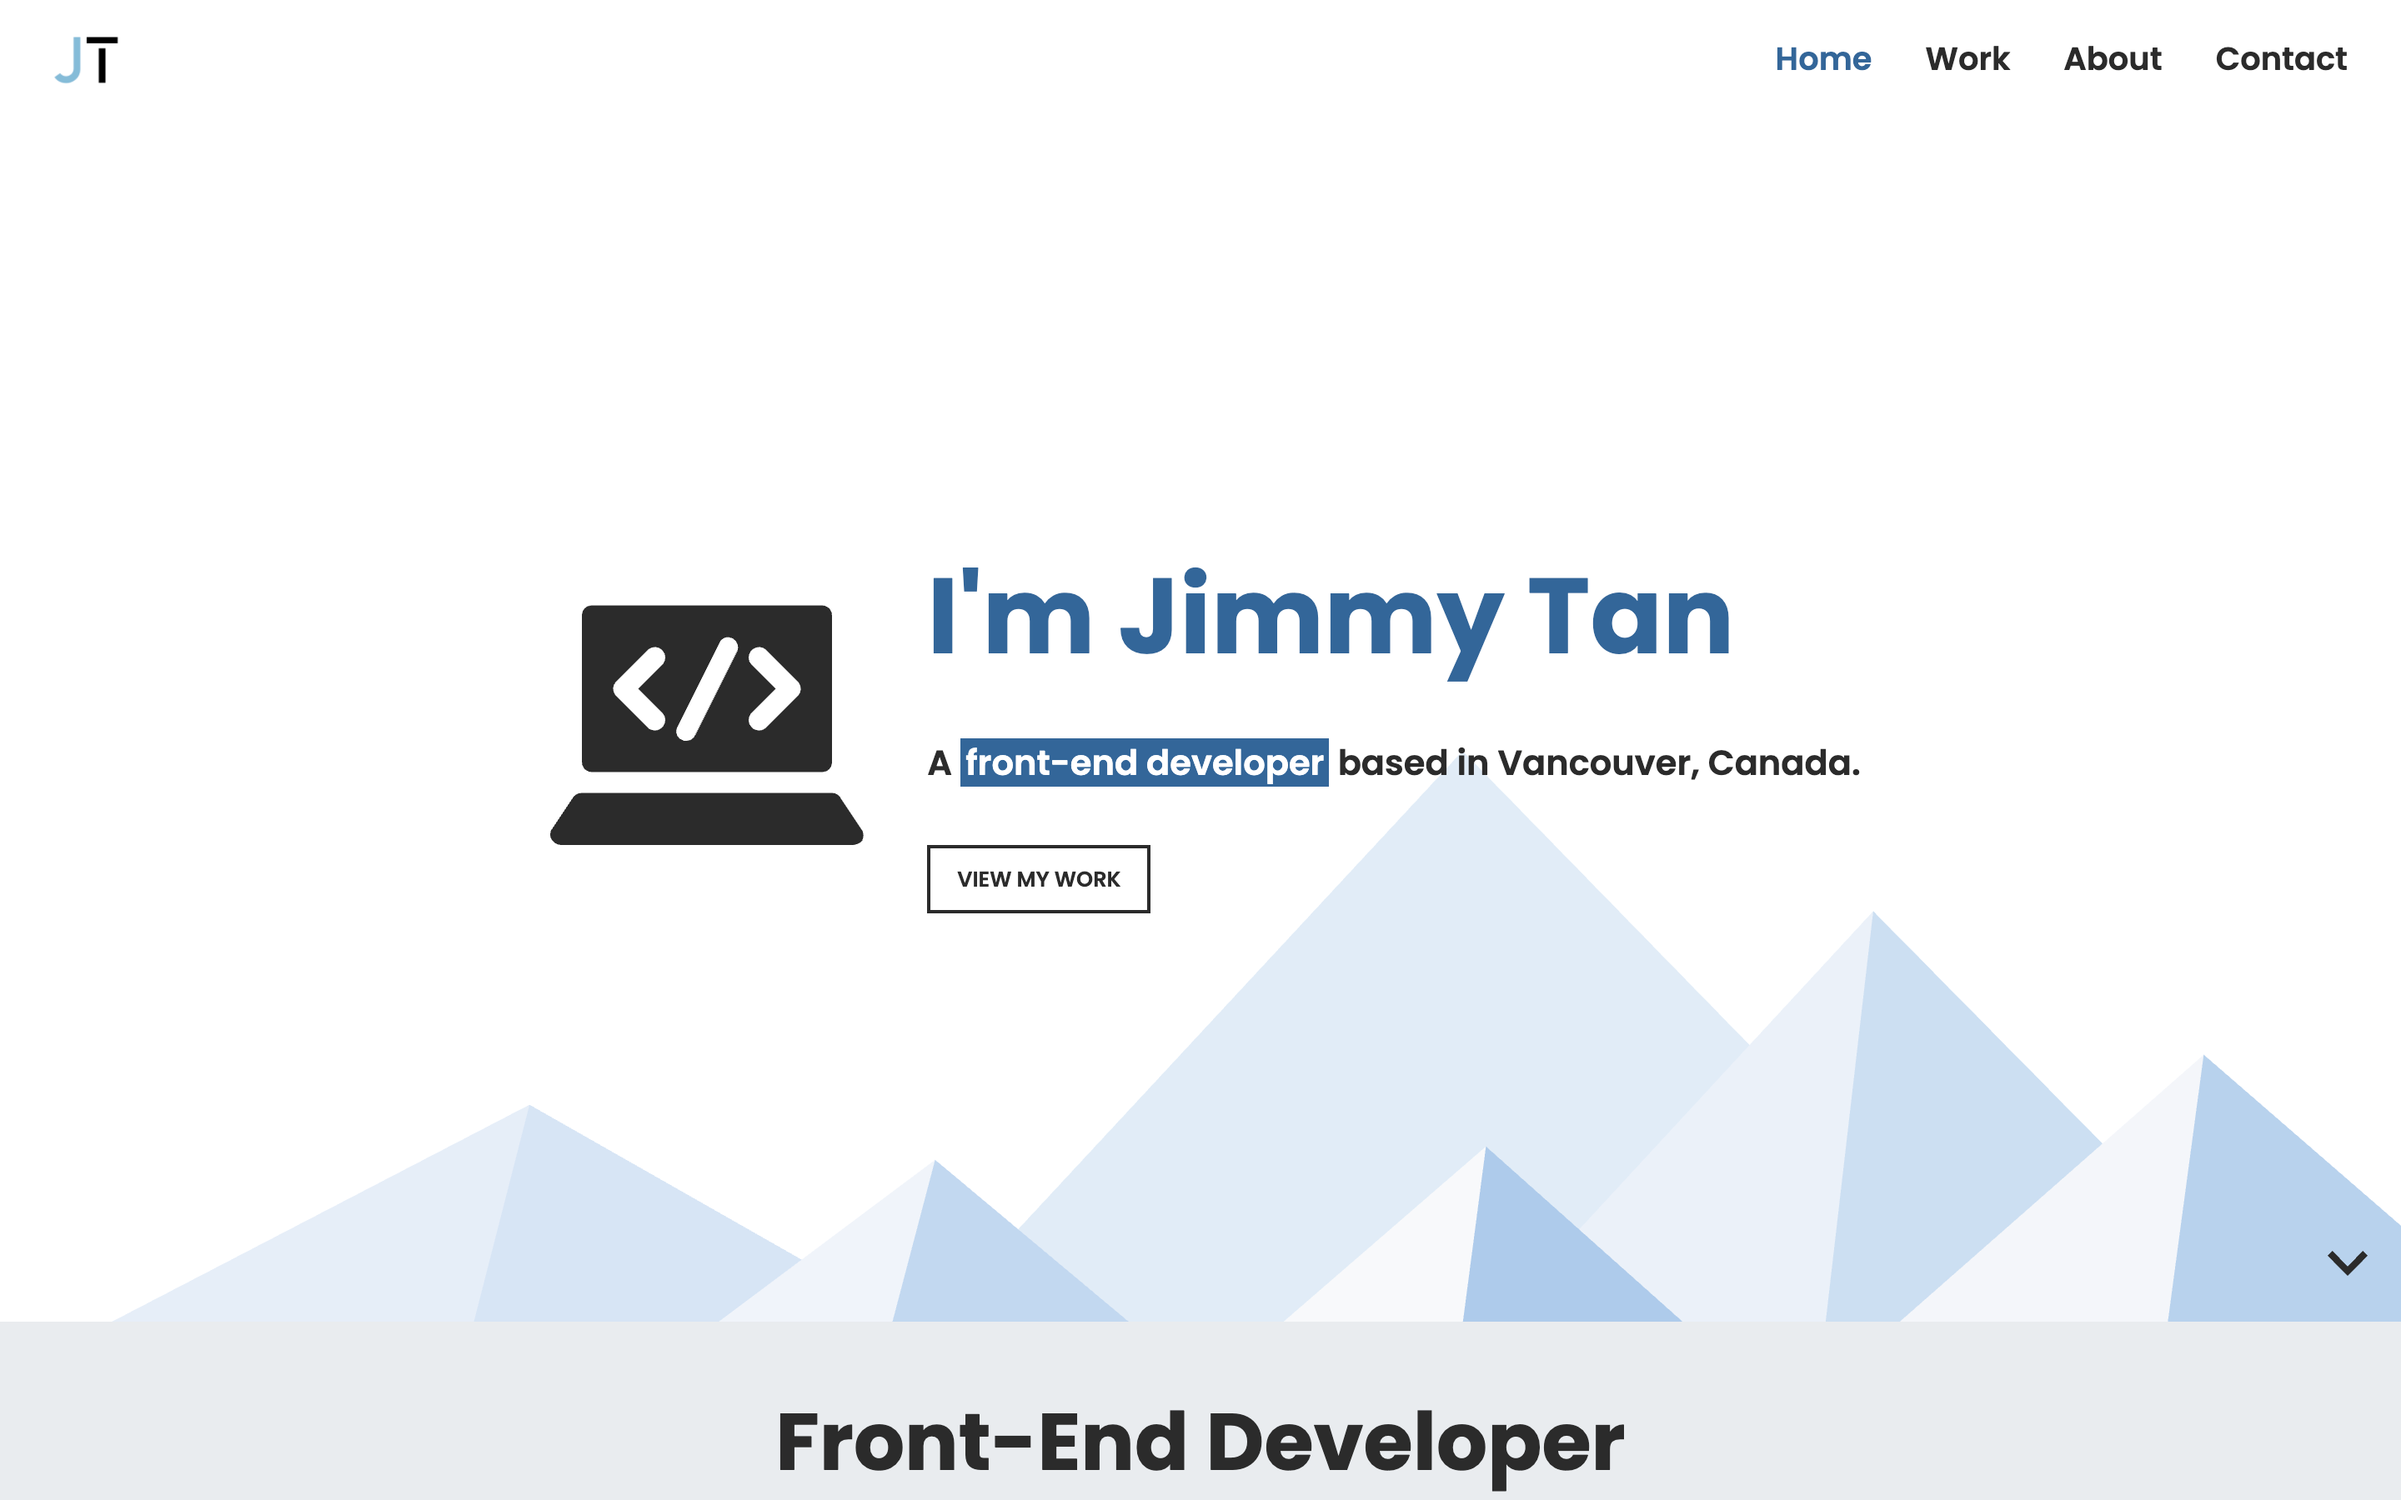
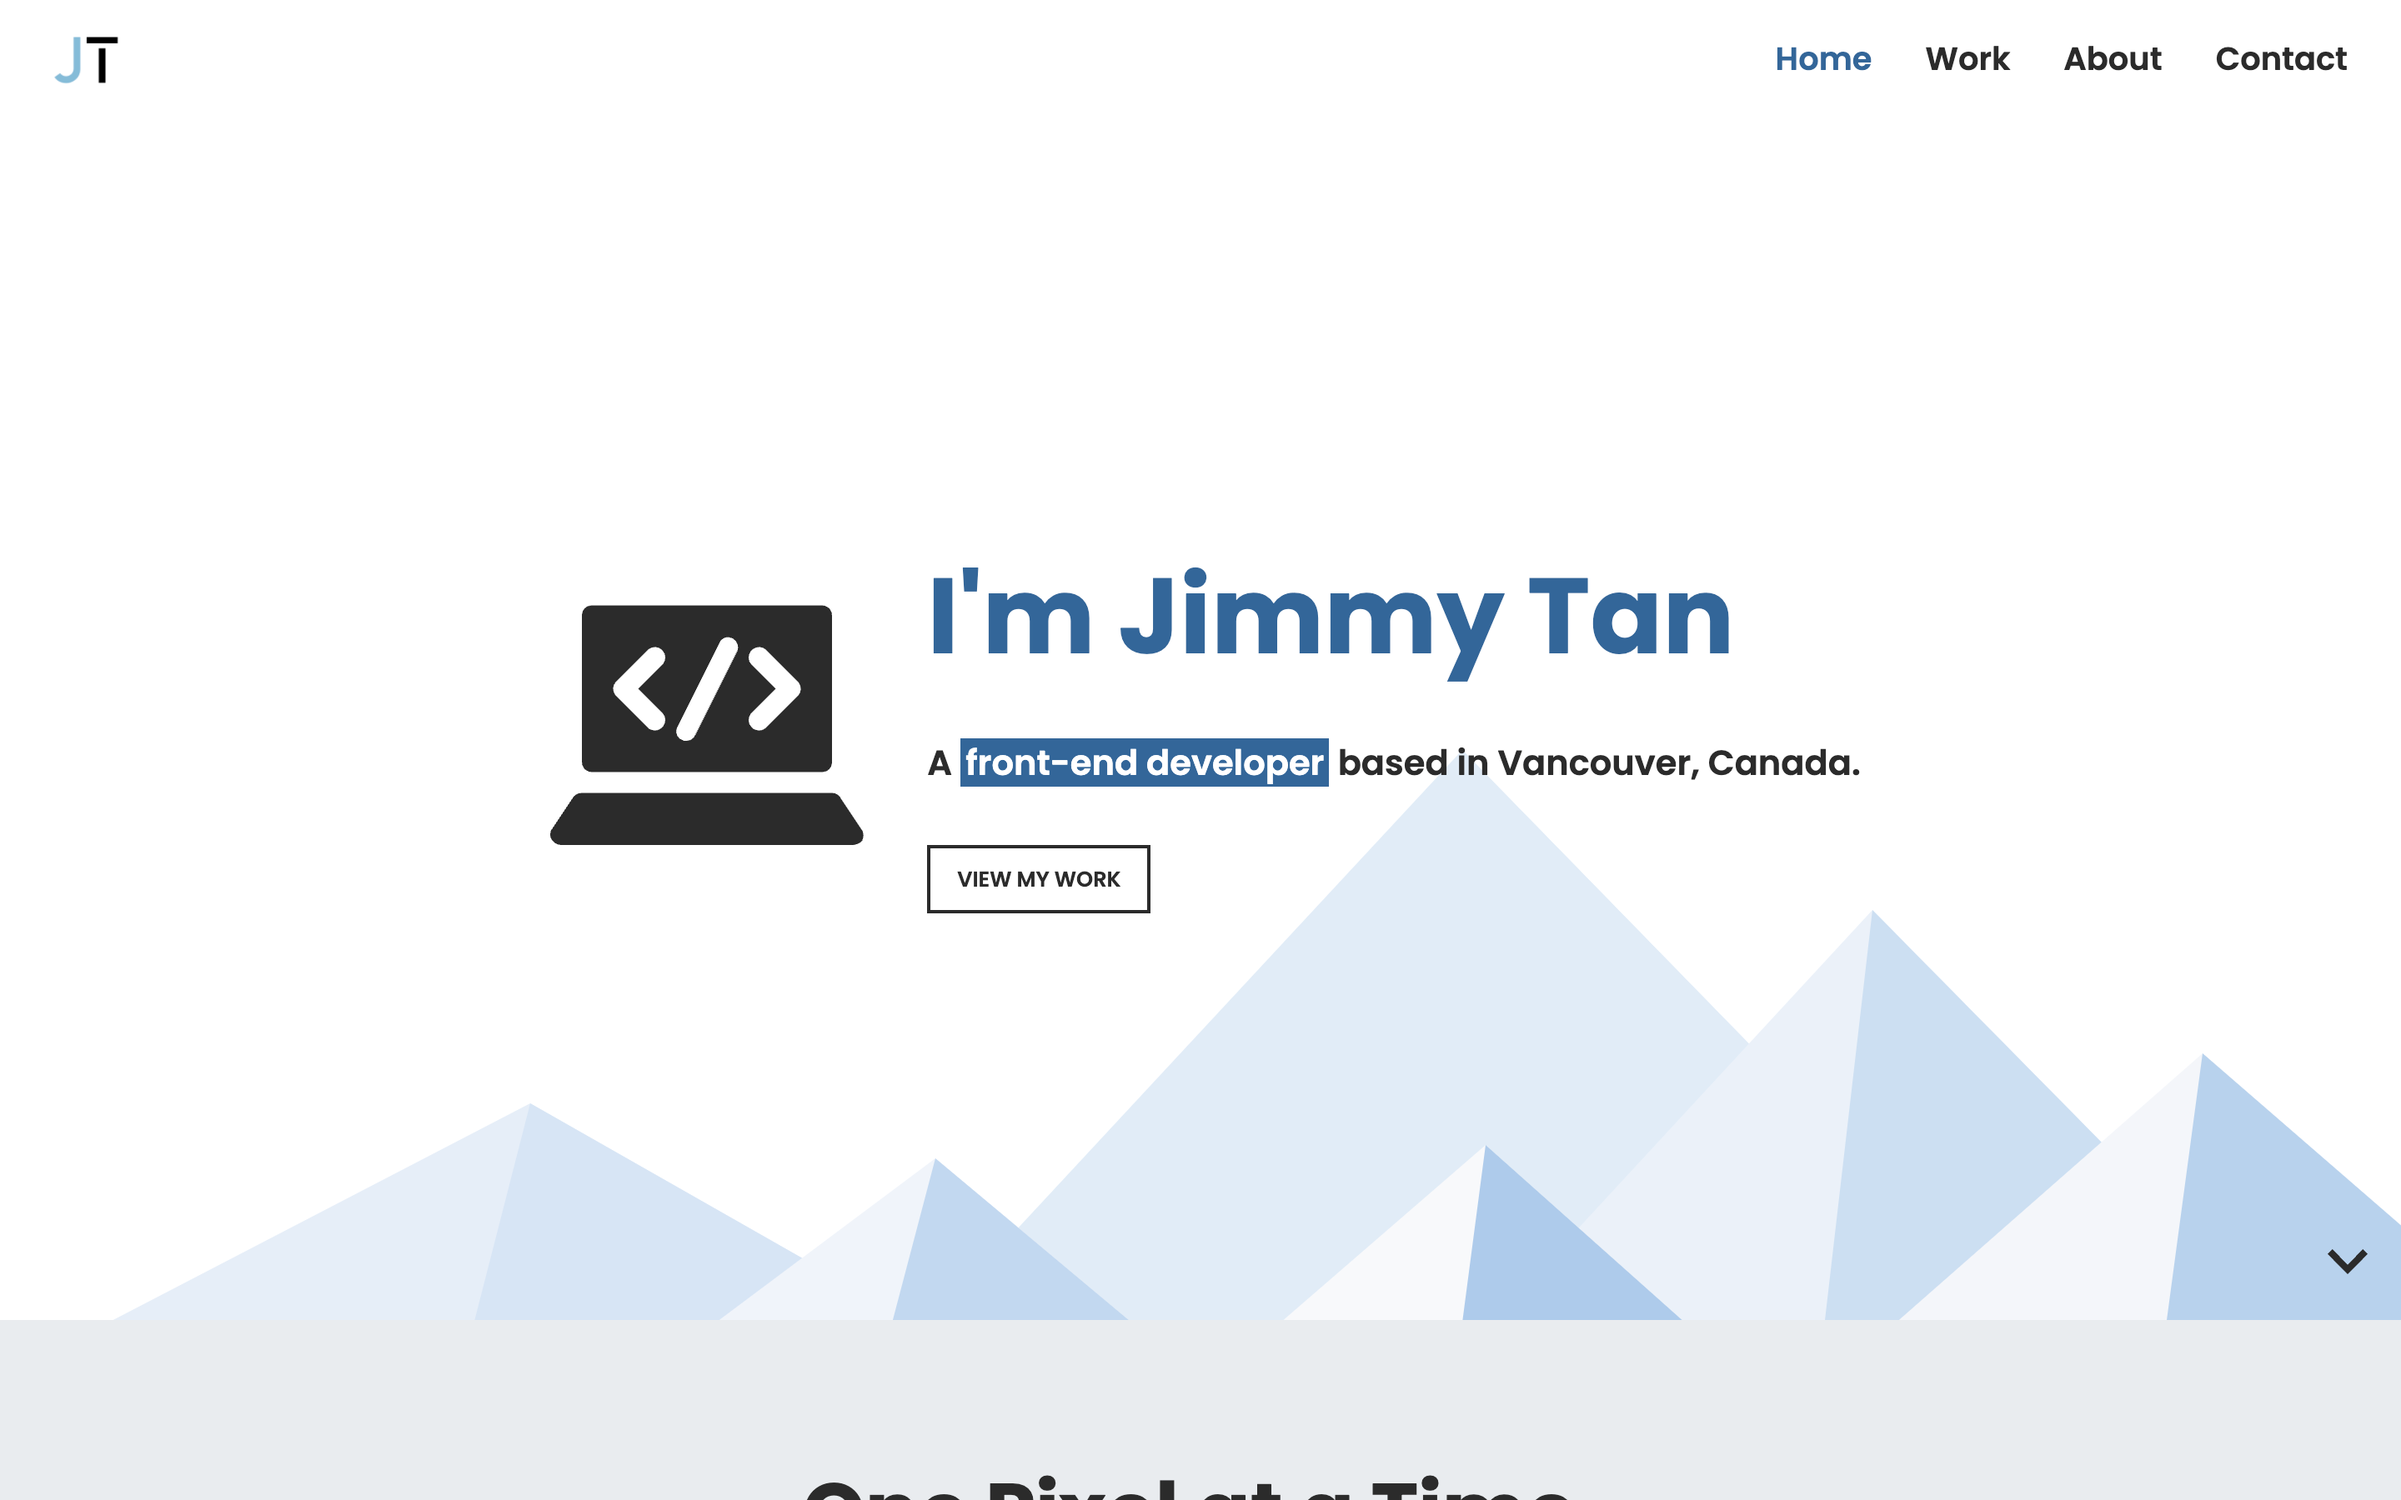
change design on homepage

Changed region(s): [[0.3125, 0.9333, 0.6875, 1.0]]

diff --git a/src/pages/PageHome.js b/src/pages/PageHome.js
@@ -2,7 +2,6 @@ import { useRef } from 'react';
 import { Link } from 'react-router-dom';
 import { motion } from 'framer-motion';
 import { Helmet } from 'react-helmet-async';
-import { FaCode, FaPaintBrush } from 'react-icons/fa';
 import { ReactComponent as LaptopCode } from '../globals/logos/laptop-code.svg';
 import { downArrow } from '../globals/icon';
 import Contact from '../components/Contact';
@@ -48,38 +47,21 @@ const PageHome = () => {
           {downArrow}
         </button>
       </section>
-      <section ref={elementRef} className="background">
+      <section ref={elementRef} className="brief-intro">
         <div className="text">
-          <h2>Front-End Developer</h2>
+          <h2>One Pixel at a Time</h2>
           <p>
             A self-motivated front-end developer with{' '}
             <Link className="link-to-work" to="/work">
-              <mark>hands-on project experience</mark>
+              <span>hands-on project experiences</span>
             </Link>{' '}
             designing and building websites from scratch. My goal is to build
             websites with both visually appealing and user experience-oriented
             functionality.
             <Link className="link-to-about" to="/about">
-              <mark>More about me.</mark>
+              <span> More about me.</span>
             </Link>
           </p>
-          <div className="grid">
-            <h3>Things I Love</h3>
-            <div className="card">
-              <FaCode className="code-icon" title="Code icon" />
-              <p>
-                I enjoy front-end development and love to work with React JS,
-                HTML5, CSS3/Sass and modern JavaScript.
-              </p>
-            </div>
-            <div className="card">
-              <FaPaintBrush className="brush-icon" title="Design brush icon" />
-              <p>
-                I also like being part of the design creative process and I have
-                been working on web design using Adobe Creative Cloud.
-              </p>
-            </div>
-          </div>
         </div>
       </section>
       <Contact />

diff --git a/src/scss/pages/_pageHome.scss b/src/scss/pages/_pageHome.scss
@@ -155,54 +155,43 @@
     }
   }
 
-  // for background section on Page Home
-  .background {
+  // for brief-intro section on Page Home
+  .brief-intro {
     background-color: $light-grey;
+
+    min-height: 380px;
+    @include flex-layout-column-center;
 
     .link-to-about,
     .link-to-work {
-      mark {
-        padding: 0.1rem 0.2rem;
-        margin-left: 3px;
-        background-color: $dark-blue;
-        color: $white;
+      span {
+        padding-bottom: 0.1rem;
+        border-bottom: 5px solid $orange;
+        transition: border-color 0.35s ease-in-out;
+
+        &:hover {
+          border-color: red;
+        }
       }
     }
 
     h2 {
-      margin: $base-spacing 0;
+      margin: $base-spacing 0 0 0;
       text-align: center;
-      // color: $white;
       font-size: $large-font-size;
+
+      &::after {
+        content: '.';
+        color: $dark-blue;
+      }
     }
 
     .text {
       max-width: 1000px;
       padding: $base-spacing $double-spacing;
       margin: 0 auto;
-    }
-
-    .grid {
-      display: grid;
-      grid-template-columns: 1fr;
-      justify-content: center;
-      h3 {
-        grid-column: 1/2;
-        text-align: center;
-        font-size: $medium-font-size;
-      }
-
-      svg {
-        font-size: 2.5rem;
-      }
-
-      .card {
-        text-align: center;
-
-        p {
-          text-align: left;
-        }
-      }
+      font-size: $standard-font-size;
+      line-height: 2;
     }
 
     .code-icon {
@@ -217,19 +206,9 @@
       h2 {
         font-size: 2.5rem;
       }
-    }
 
-    @media all and (min-width: $breakpoint-mobile) {
-      .grid {
-        grid-template-columns: 1fr 1fr;
-
-        h3 {
-          grid-column: 1/3;
-        }
-
-        .card {
-          margin: 0 $base-spacing;
-        }
+      .text {
+        font-size: 1.3rem;
       }
     }
 

diff --git a/src/components/Contact.js b/src/components/Contact.js
@@ -49,20 +49,20 @@ const Contact = () => {
           {location.pathname !== '/work' && (
             <div className="btn">
               <div className="side default-side">
-                <Link to="/work">View work</Link>
+                <Link to="/work">View Work</Link>
               </div>
               <div className="side hover-side">
-                <Link to="/work">View work</Link>
+                <Link to="/work">View Work</Link>
               </div>
             </div>
           )}
           <div className="btn">
             <div className="side default-side">
-              <a href={`mailto:${email}`}>Email me</a>
+              <a href={`mailto:${email}`}>Email Me</a>
             </div>
 
             <div className="side hover-side hover-side-email-btn">
-              <a href={`mailto:${email}`}>Email me</a>
+              <a href={`mailto:${email}`}>Email Me</a>
             </div>
           </div>
         </div>

diff --git a/src/scss/components/_thumbnail.scss b/src/scss/components/_thumbnail.scss
@@ -56,7 +56,7 @@
       transition: border-color 0.3s ease-in-out;
 
       &.more-info {
-        border-bottom: 4px solid #ef233c;
+        border-color: $orange;
       }
 
       &:hover,
@@ -156,7 +156,7 @@
 
       &:hover,
       &:focus {
-        border-color: #ff983d;
+        border-color: #ef233c;
       }
     }
   }

diff --git a/src/scss/base/_variables.scss b/src/scss/base/_variables.scss
@@ -20,7 +20,7 @@ $light-blue: #86bbd8;
 $dark-grey: #2b2b2b;
 $light-grey: #e9ecef;
 $white: #fff;
-$orange: #ff7900;
+$orange: #ff9500;
 
 //spacing variables
 $small-spacing: 0.5rem;
